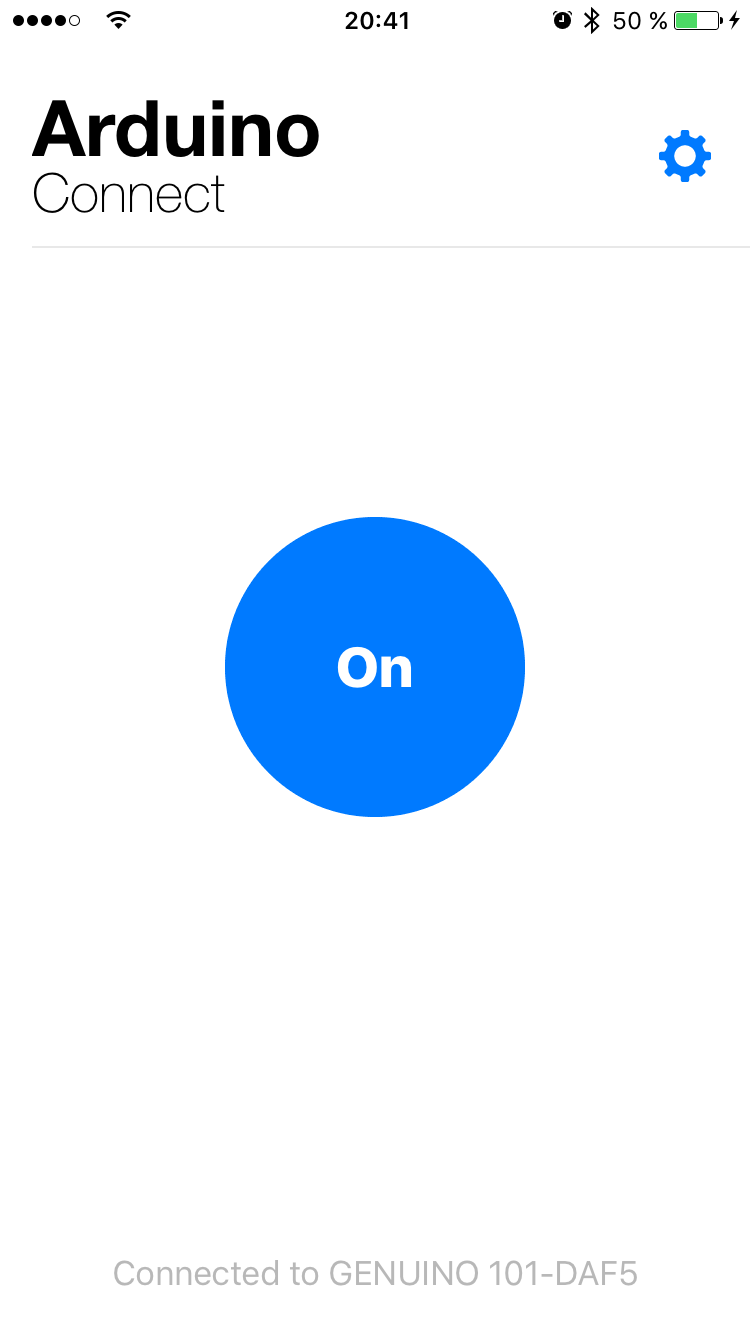
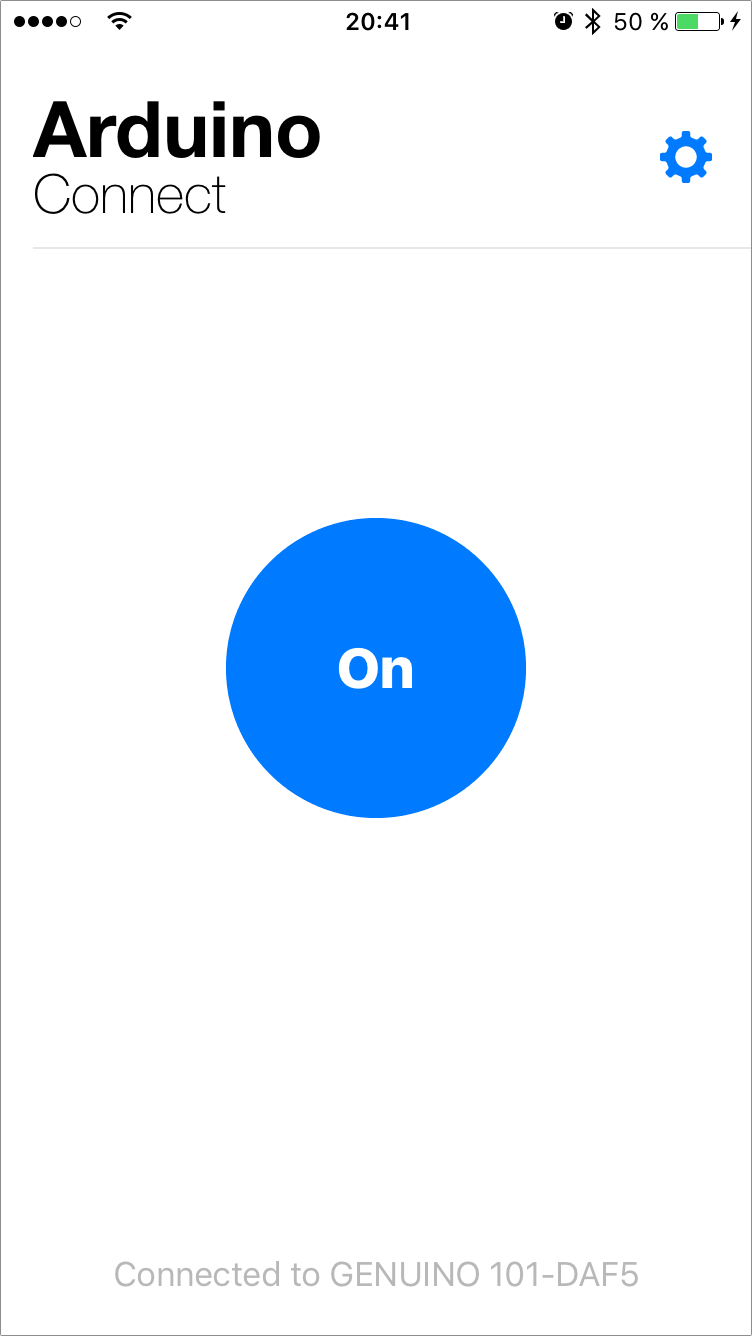
Added border to sample image

diff --git a/README.md b/README.md
@@ -13,7 +13,8 @@ A simple wrapper for CoreBluetooth to easily connect to Bluetooth LE devices and
 
 Take a look at the iOS demo in the `Example` directory to see how to use it. It shows how to turn on/off the LED of an **[Arduino 101](https://www.arduino.cc/en/Main/ArduinoBoard101)**. 
 
-<img src="Resources/example.png" width=375 style="border:1px solid #CCCCCC"/>
+
+<img src="Resources/example.png" width=375 />
 
 
 # Usage
